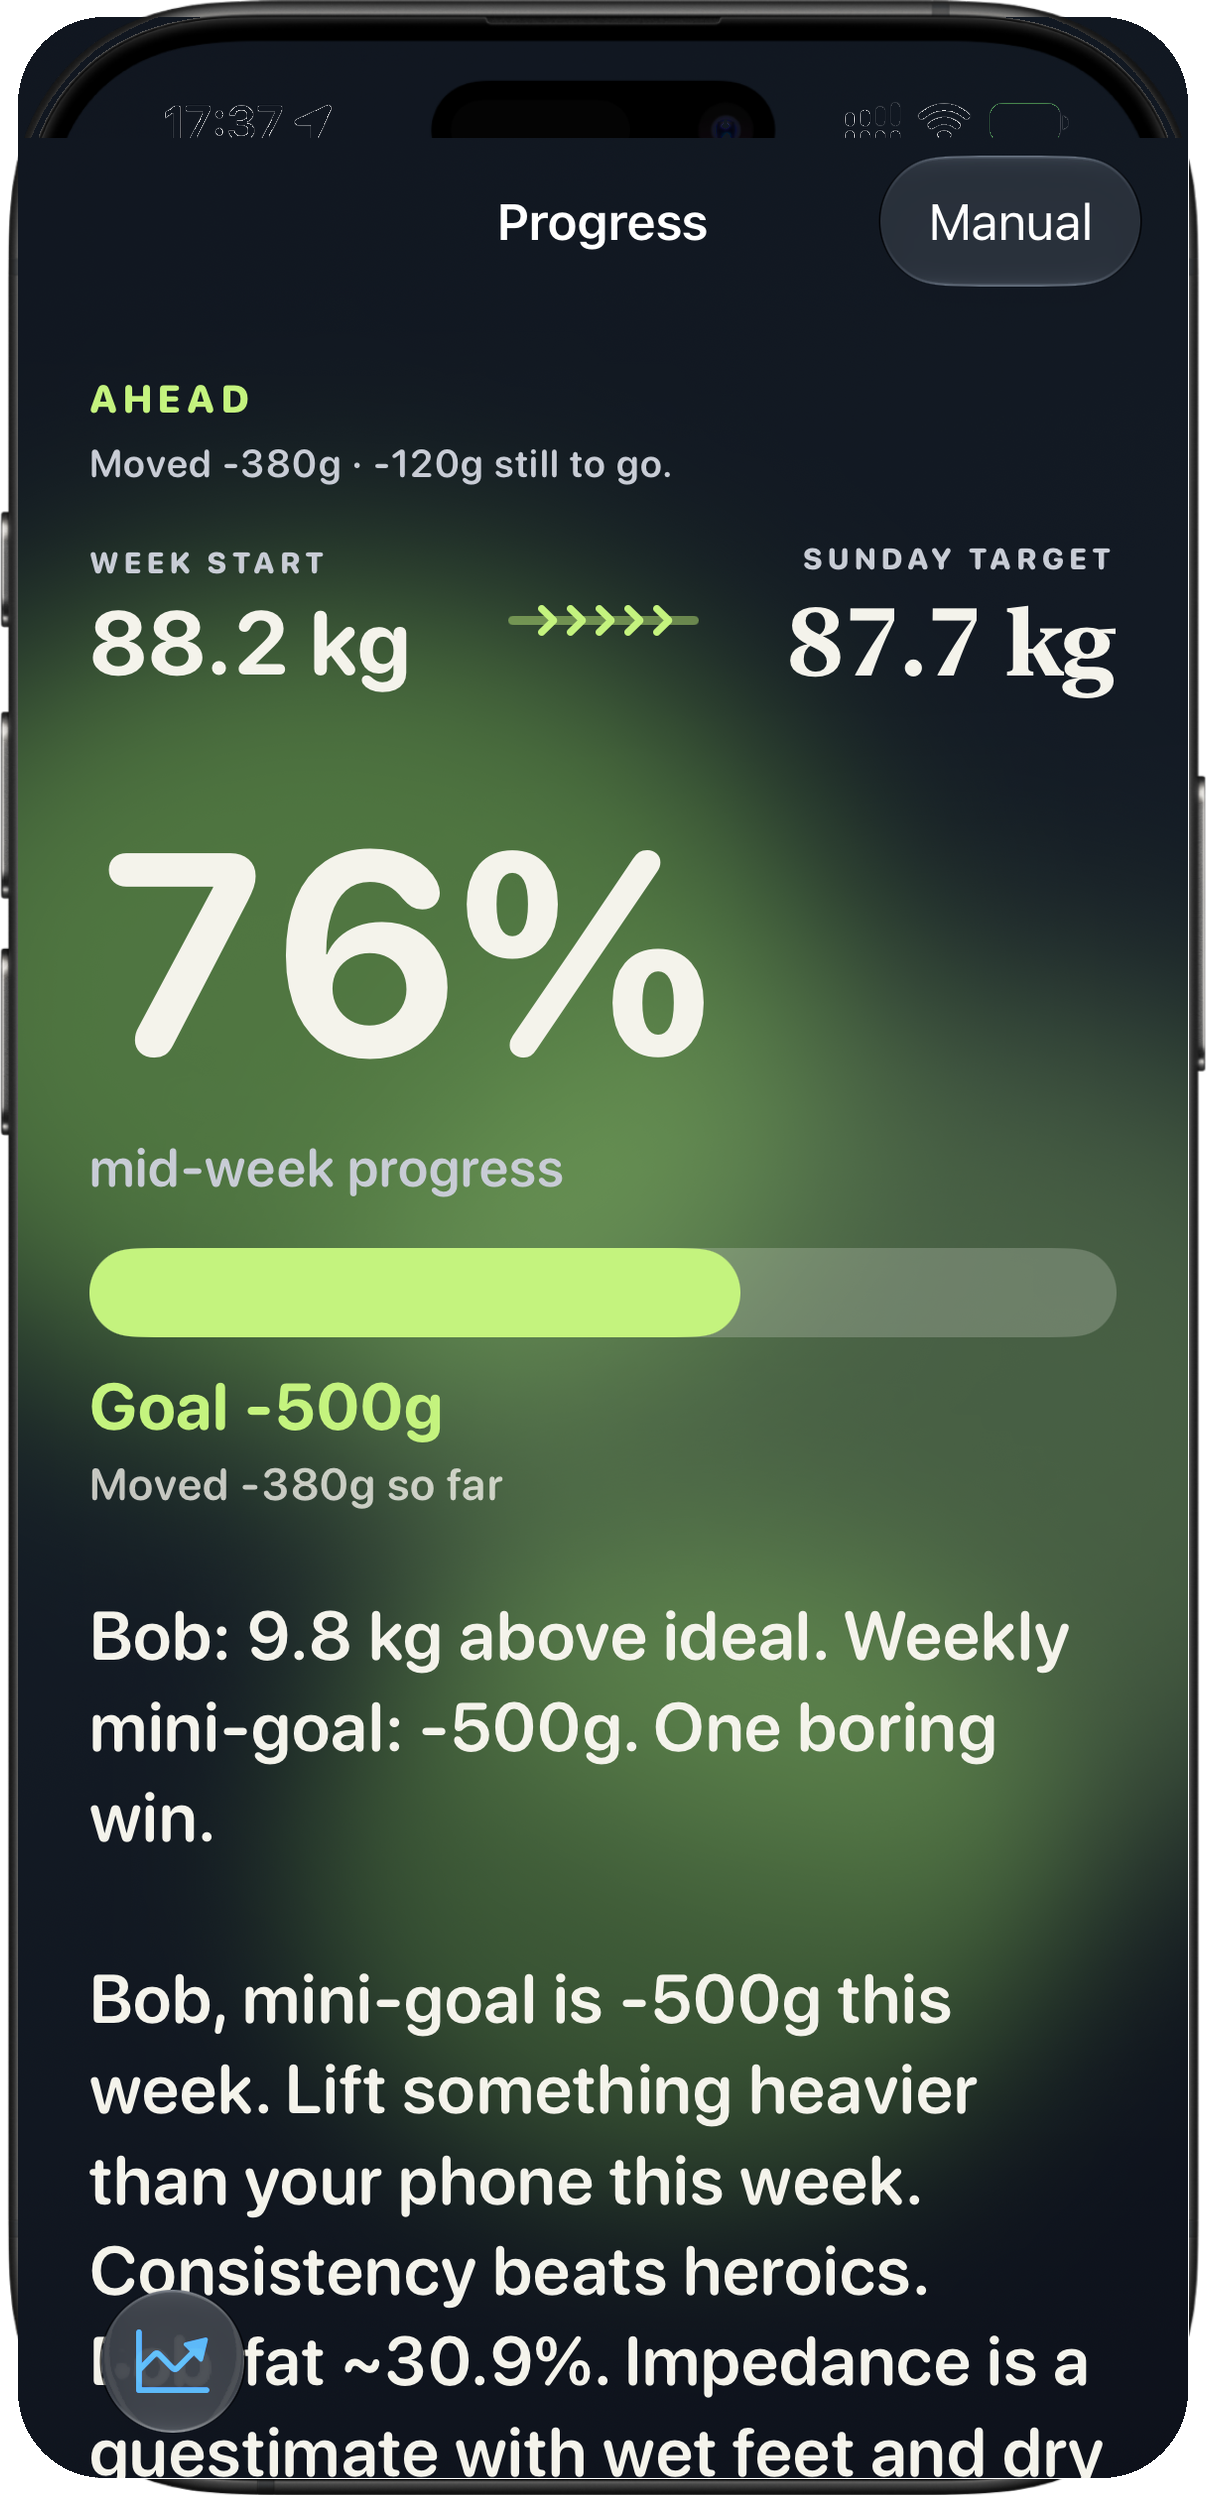
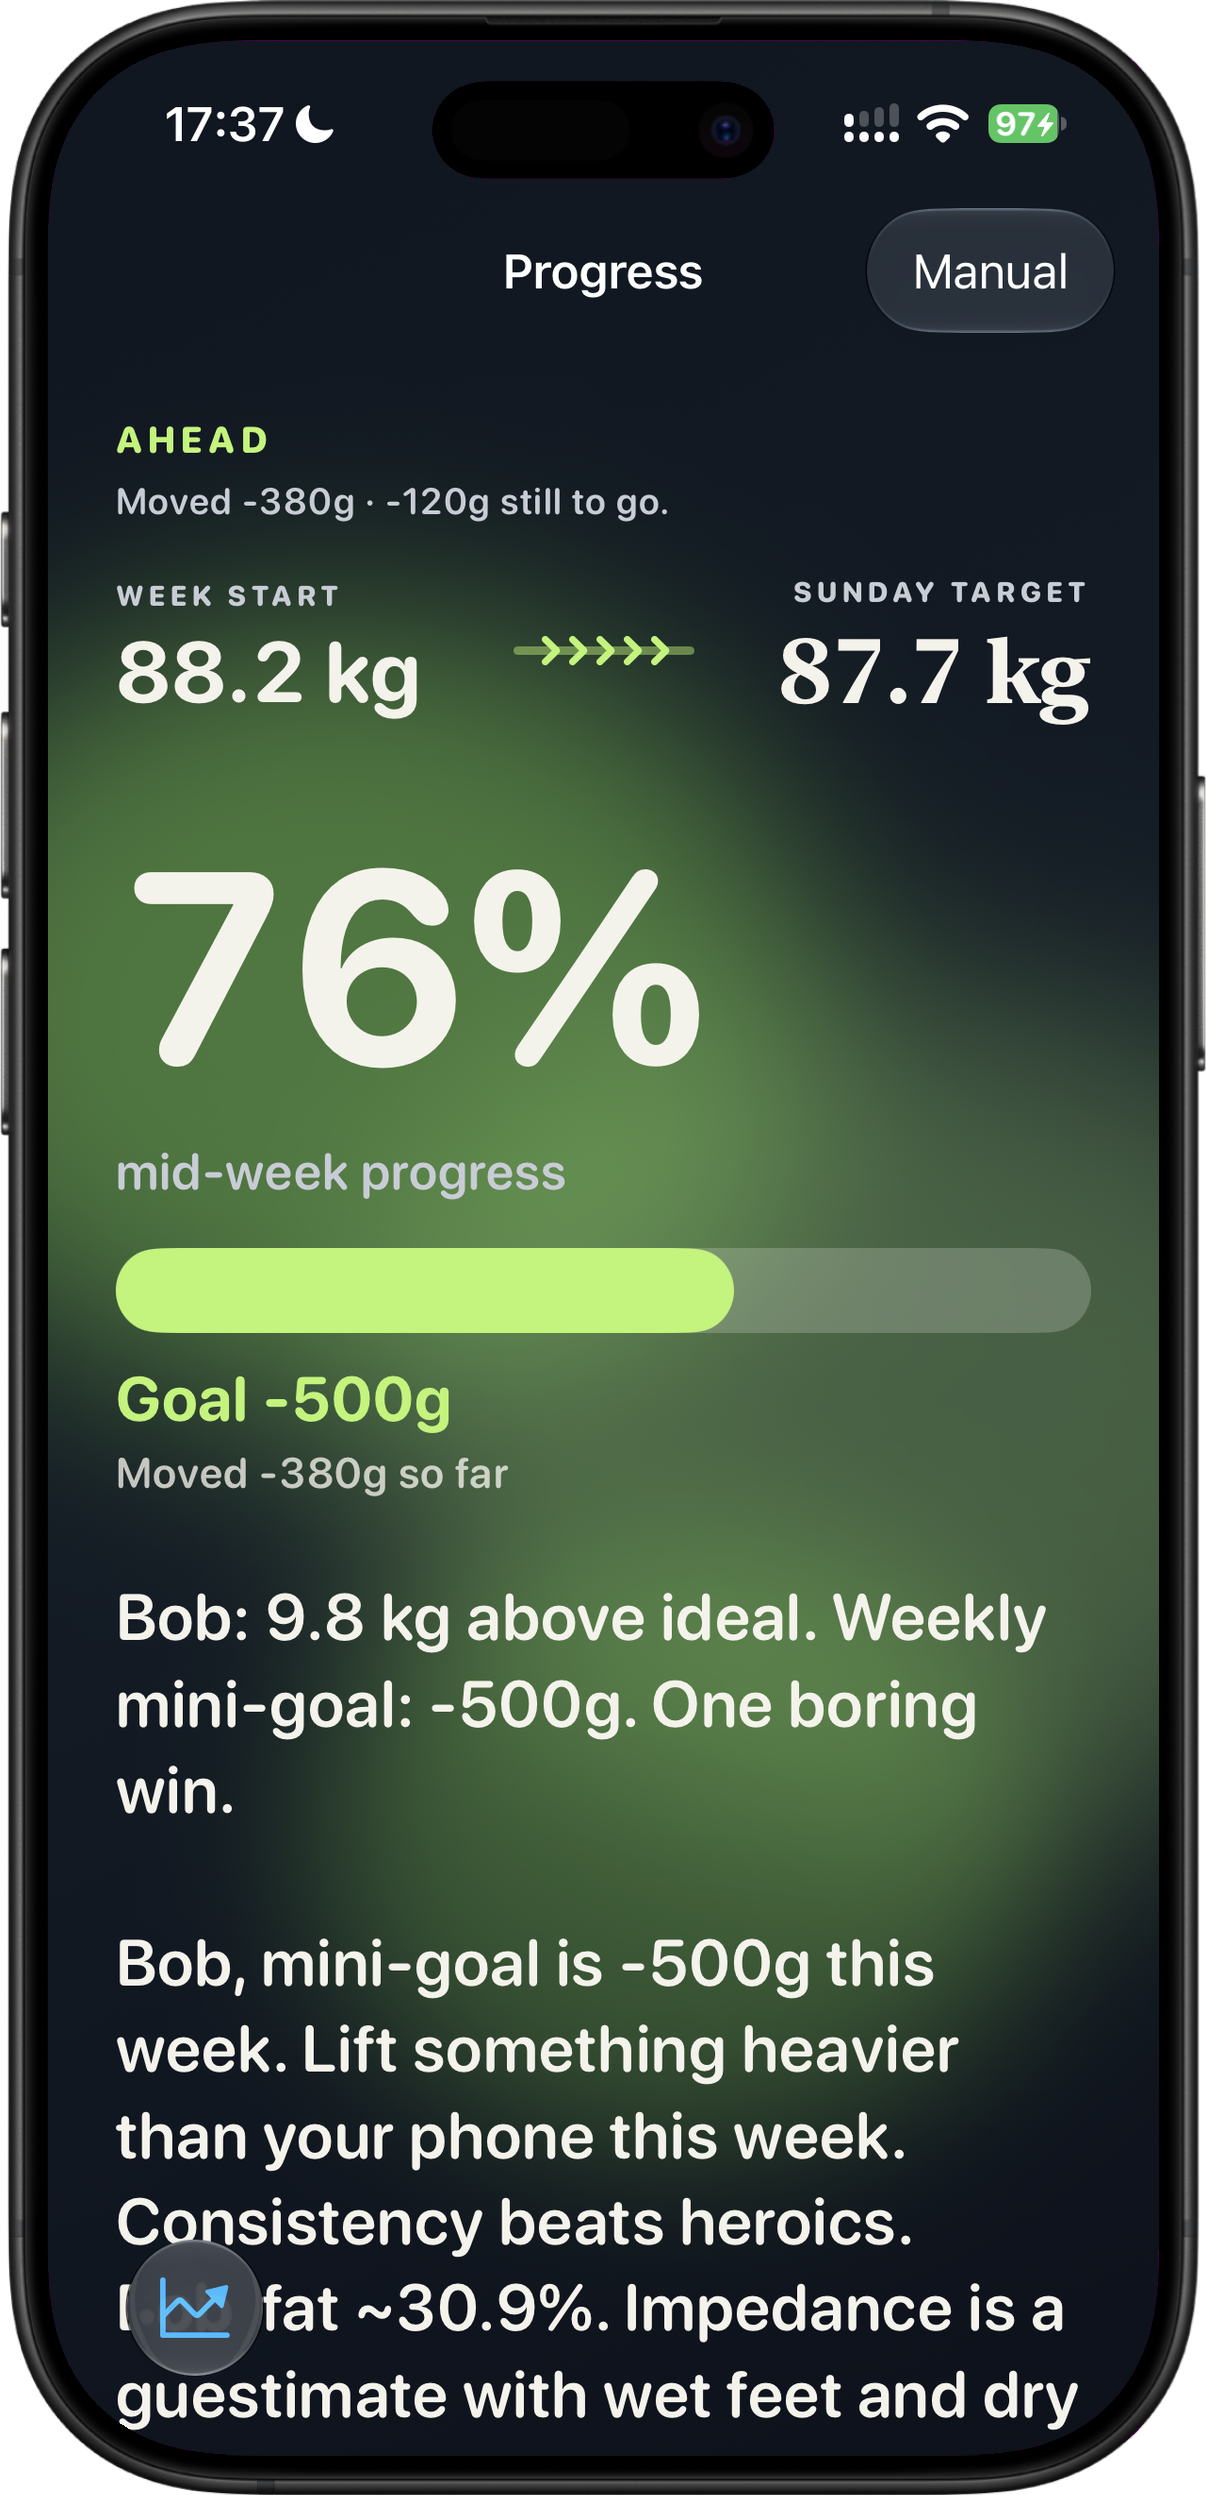
fix(web): stretch-fit simulator shots into phone frames without crops (1.0.113)
Rebuild mockups with an exact screen mask and no cover-crop, and stop tilting the hero device so the UI fills the bezel cleanly.

diff --git a/sites/fatnag-com/styles.css b/sites/fatnag-com/styles.css
@@ -266,7 +266,7 @@ html[dir="rtl"] .lang-picker select {
   display: grid;
   align-items: end;
   padding: 2.5rem 0 3.5rem;
-  overflow: hidden;
+  overflow-x: clip;
 }
 
 .hero-grid {
@@ -364,16 +364,15 @@ html[dir="rtl"] .lang-picker select {
 
 .device-hero {
   position: relative;
-  width: min(100%, 320px);
-  aspect-ratio: 720 / 1489;
-  transform: rotate(-3deg);
-  animation: phone-in 1.1s cubic-bezier(0.2, 0.8, 0.2, 1) both;
+  width: min(100%, 340px);
+  aspect-ratio: 700 / 1448;
+  animation: phone-in 1s cubic-bezier(0.2, 0.8, 0.2, 1) both;
   filter: drop-shadow(0 28px 48px rgba(0, 0, 0, 0.55));
 }
 
 @keyframes phone-in {
-  from { opacity: 0; transform: rotate(-7deg) translateY(12%) scale(0.96); }
-  to { opacity: 1; transform: rotate(-3deg) scale(1); }
+  from { opacity: 0; transform: translateY(16px) scale(0.97); }
+  to { opacity: 1; transform: none; }
 }
 
 .device-hero .device-img {
@@ -382,6 +381,7 @@ html[dir="rtl"] .lang-picker select {
   width: 100%;
   height: 100%;
   object-fit: contain;
+  object-position: center;
   opacity: 0;
   transition: opacity 0.7s ease;
 }
@@ -757,17 +757,16 @@ section {
   }
 
   .device-hero {
-    width: min(100%, 248px);
-    transform: rotate(-2.5deg);
+    width: min(100%, 260px);
   }
 
   .feature-visual .device-img.static {
-    width: min(100%, 220px);
+    width: min(100%, 230px);
   }
 
   @keyframes phone-in {
-    from { opacity: 0; transform: rotate(-5deg) translateY(10%) scale(0.96); }
-    to { opacity: 1; transform: rotate(-2.5deg) scale(1); }
+    from { opacity: 0; transform: translateY(12px) scale(0.97); }
+    to { opacity: 1; transform: none; }
   }
 }
 
